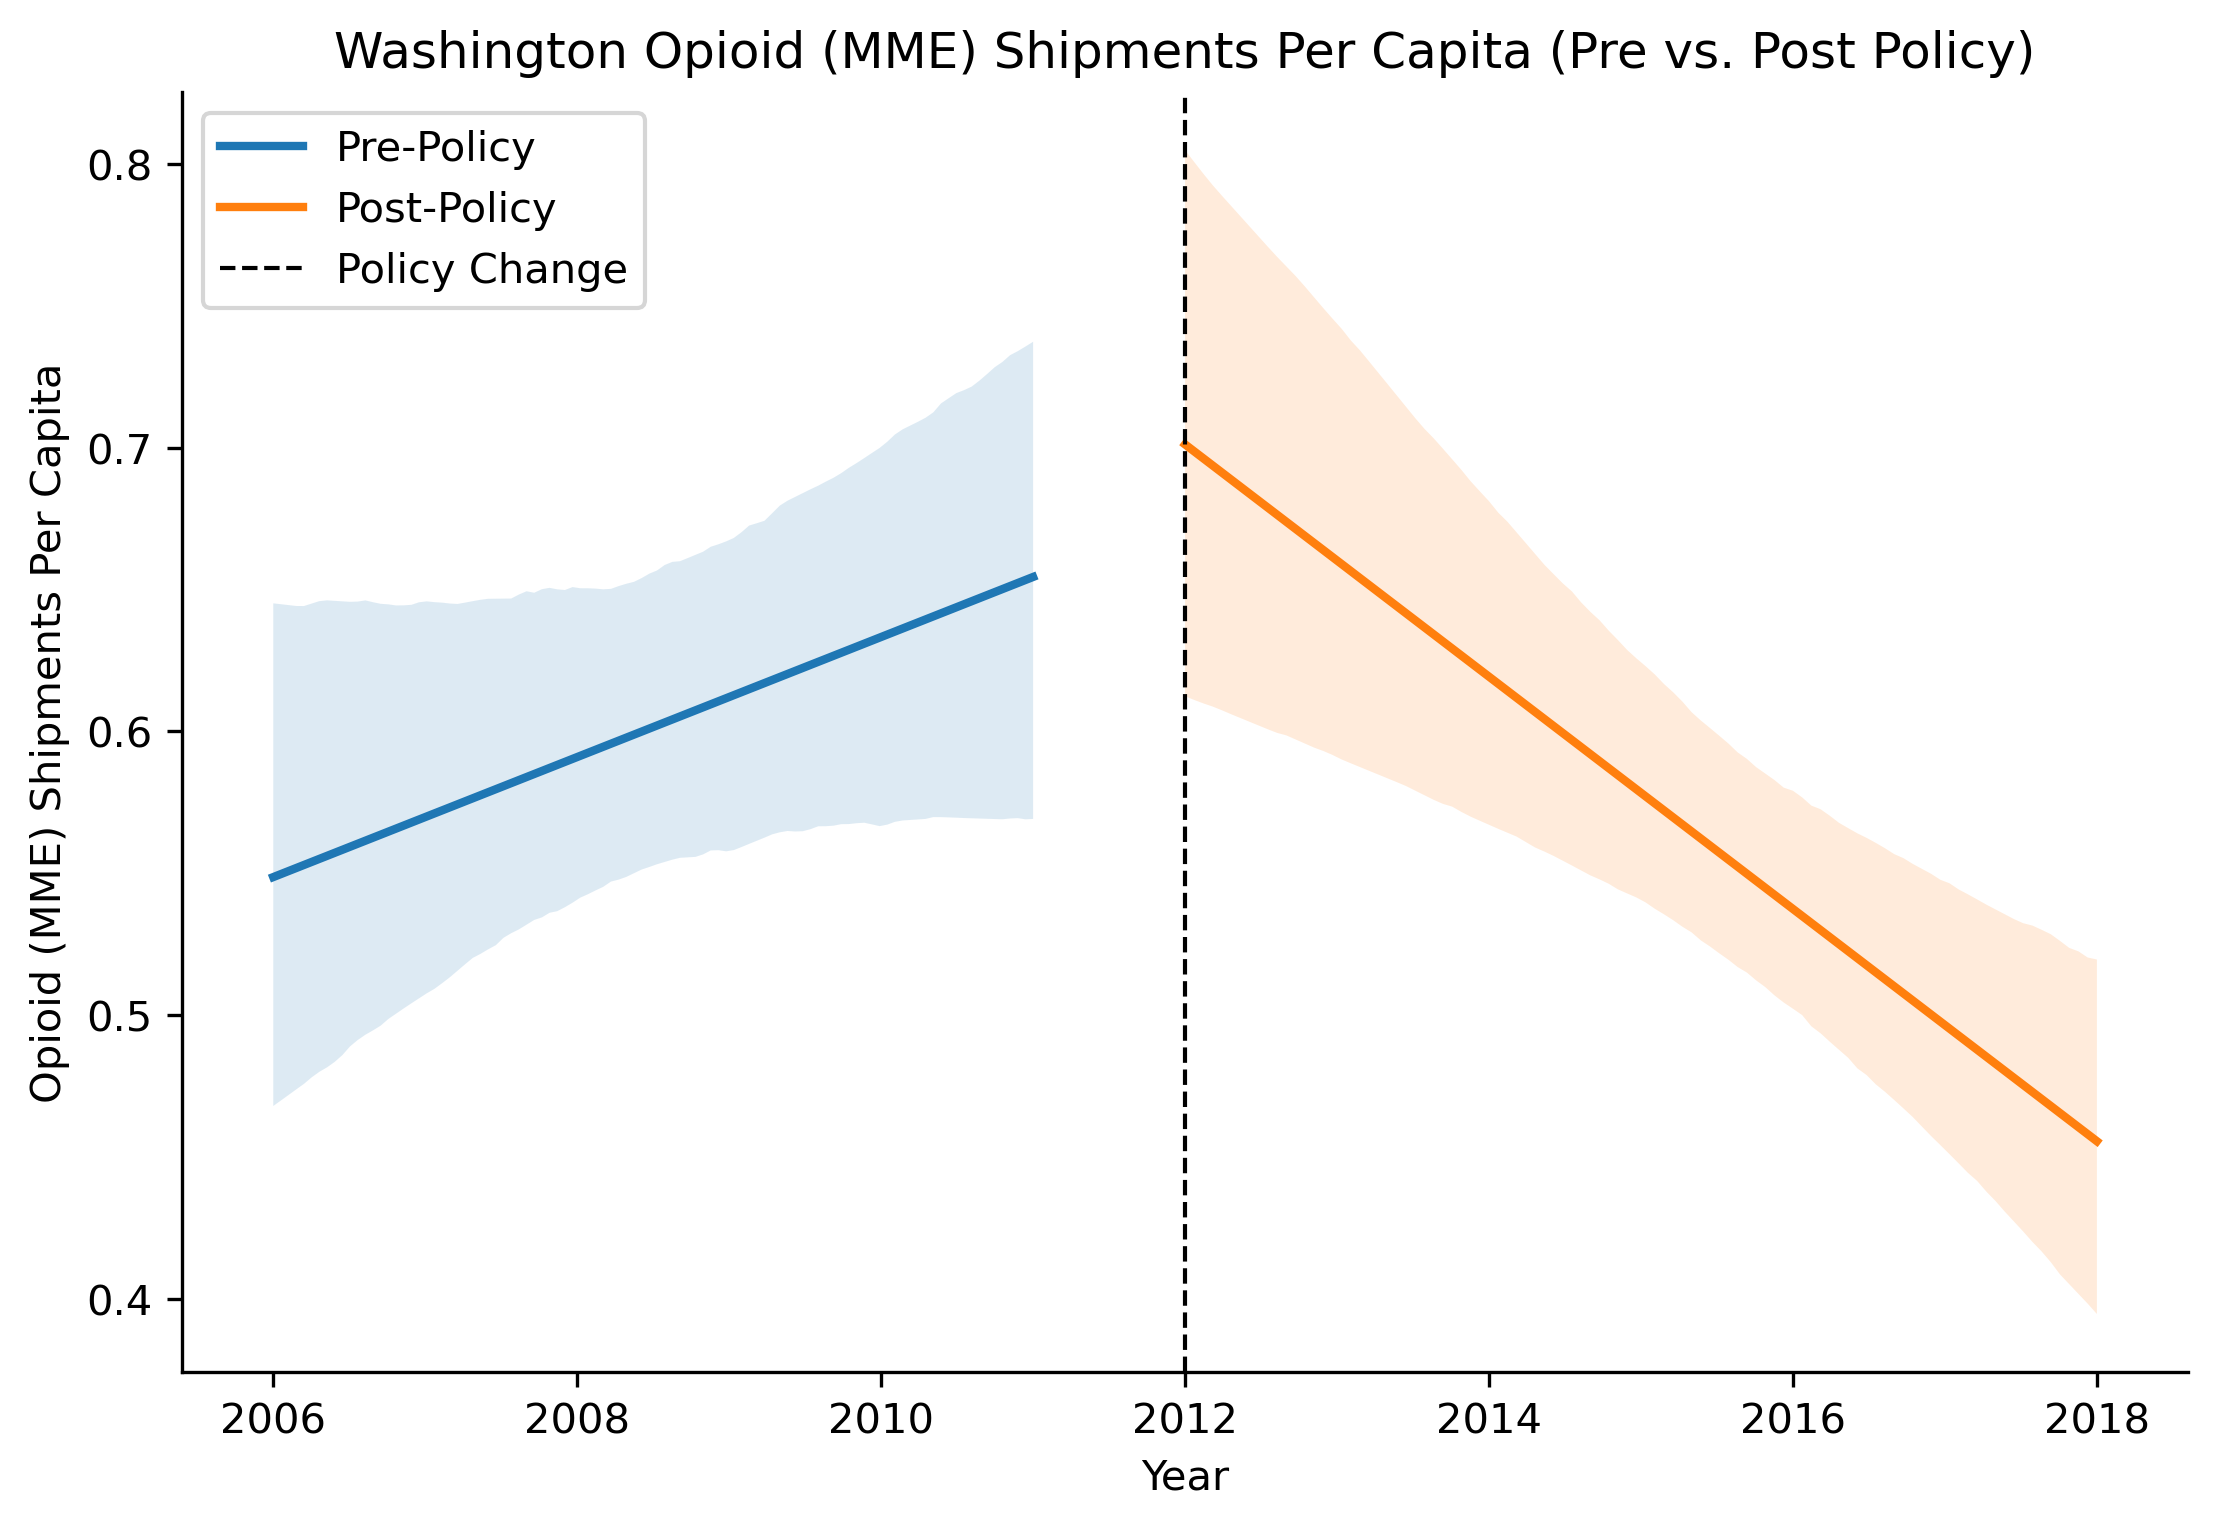
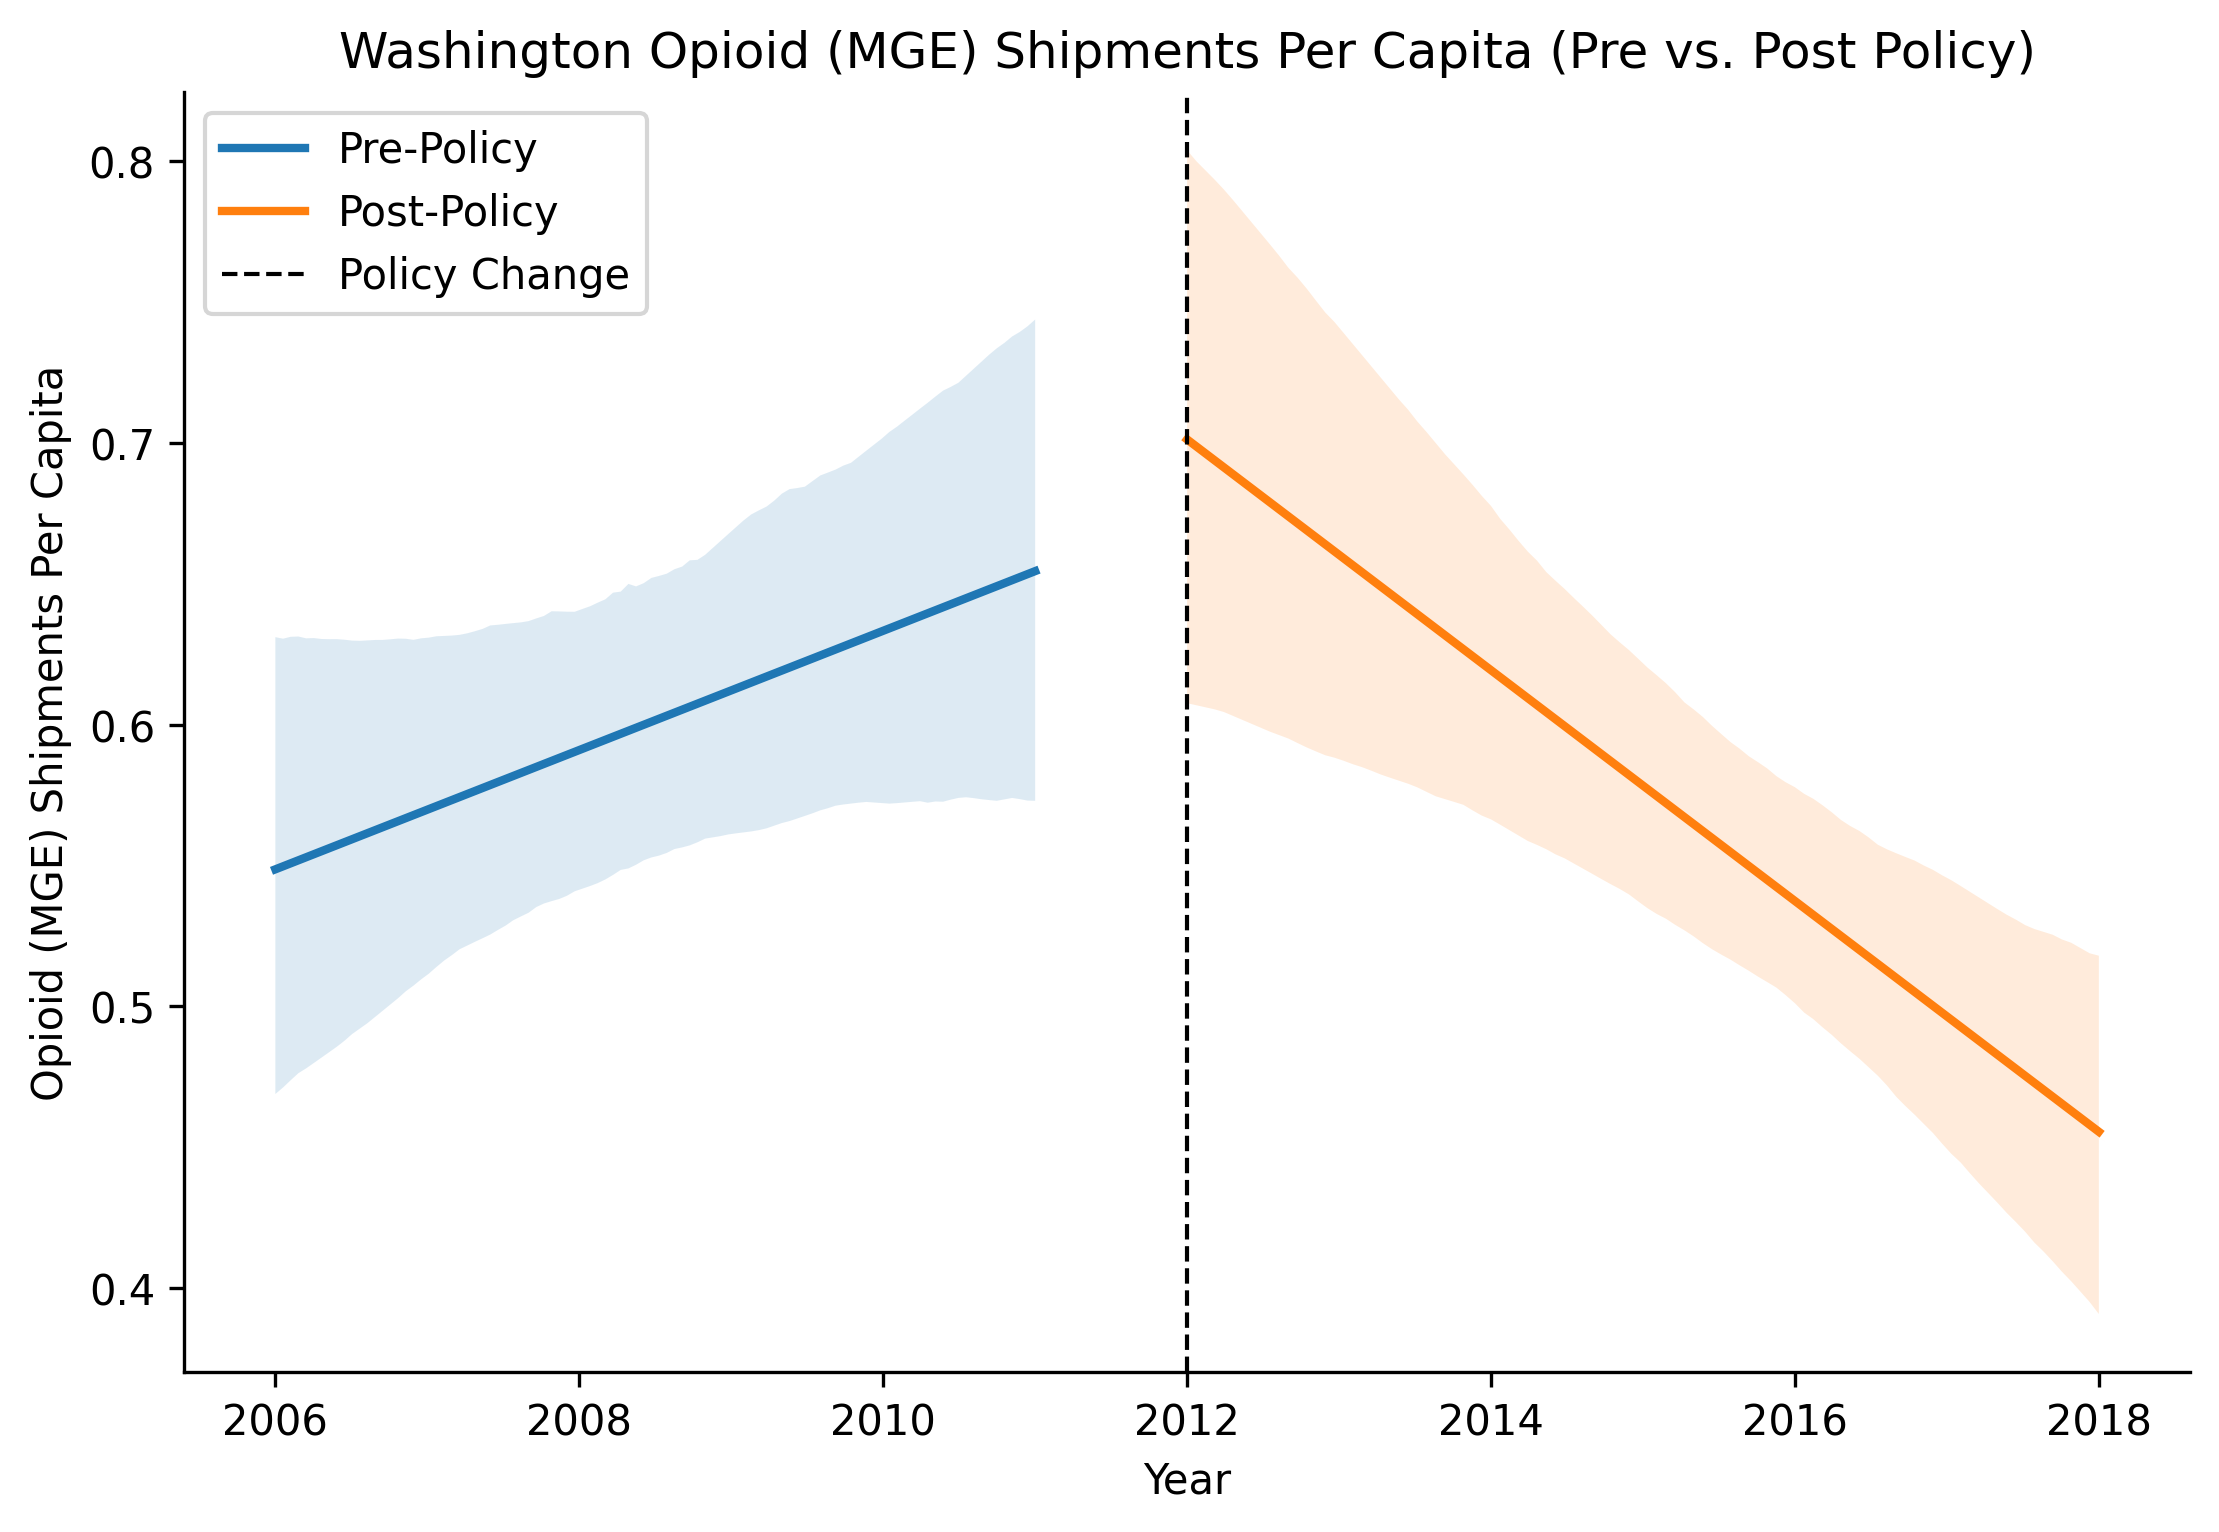
fixed MME to MGE in plots

diff --git a/10_code/drugs_analysis.py b/10_code/drugs_analysis.py
@@ -12,7 +12,7 @@ pd.set_option("mode.copy_on_write", True)
 
 fl_drugs_did = pd.read_parquet("20_intermediate_files/fl_controls_prescrip.parquet")
 
-fl_drugs_did["MMEPC"] = fl_drugs_did["MME"] / fl_drugs_did["Population"]
+fl_drugs_did["MMEPC"] = fl_drugs_did["CALC_MME"] / fl_drugs_did["Population"]
 
 fl_drugs_pp = fl_drugs_did[fl_drugs_did["STATE"] == "FL"]
 fl_drugs_pp["post"] = np.where(fl_drugs_pp["YEAR"] > 2009, 1, 0)
@@ -79,10 +79,10 @@ wa_drugs_pp_plot = sns.lmplot(
 ax = wa_drugs_pp_plot.ax
 
 ax.axvline(x=2012, color="black", linestyle="--", linewidth=1, label="Policy Change")
-
-ax.set_title("Washington Opioid (MME) Shipments Per Capita (Pre vs. Post Policy)")
+# this is actually MGE not MME based on how we calculated previously
+ax.set_title("Washington Opioid (MGE) Shipments Per Capita (Pre vs. Post Policy)")
 ax.set_xlabel("Year")
-ax.set_ylabel("Opioid (MME) Shipments Per Capita")
+ax.set_ylabel("Opioid (MGE) Shipments Per Capita")
 
 custom_lines = [
     plt.Line2D([0], [0], color=sns.color_palette()[0], lw=2, label="Pre-Policy"),
@@ -111,9 +111,9 @@ ax = fl_drugs_pp_plot.ax
 
 ax.axvline(x=2010, color="black", linestyle="--", linewidth=1, label="Policy Change")
 
-ax.set_title("Florida Opioid (MME) Shipments Per Capita (Pre vs. Post Policy)")
+ax.set_title("Florida Opioid (MGE) Shipments Per Capita (Pre vs. Post Policy)")
 ax.set_xlabel("Year")
-ax.set_ylabel("Opioid (MME) Shipments Per Capita")
+ax.set_ylabel("Opioid (MGE) Shipments Per Capita")
 
 custom_lines = [
     plt.Line2D([0], [0], color=sns.color_palette()[0], lw=2, label="Pre-Policy"),
@@ -143,9 +143,9 @@ ax = wa_drugs_did_plot.ax
 
 plt.axvline(x=2012, color="black", linestyle="--", linewidth=1, label="Policy Change")
 
-plt.title("Opioid (MME) Shipments Per Capita (Pre vs. Post Policy)")
+plt.title("Opioid (MGE) Shipments Per Capita (Pre vs. Post Policy)")
 plt.xlabel("Year")
-plt.ylabel("Opioid (MME) Shipments Per Capita")
+plt.ylabel("Opioid (MGE) Shipments Per Capita")
 
 custom_lines = [
     plt.Line2D([0], [0], color=sns.color_palette()[0], lw=2, label="Washington"),
@@ -175,9 +175,9 @@ ax = fl_drugs_did_plot.ax
 
 plt.axvline(x=2010, color="black", linestyle="--", linewidth=1, label="Policy Change")
 
-plt.title("pioid (MME) Shipments Per Capita (Pre vs. Post Policy)")
+plt.title("Opioid (MGE) Shipments Per Capita (Pre vs. Post Policy)")
 plt.xlabel("Year")
-plt.ylabel("pioid (MME) Shipments Per Capita")
+plt.ylabel("Opioid (MGE) Shipments Per Capita")
 
 custom_lines = [
     plt.Line2D([0], [0], color=sns.color_palette()[0], lw=2, label="Florida"),
